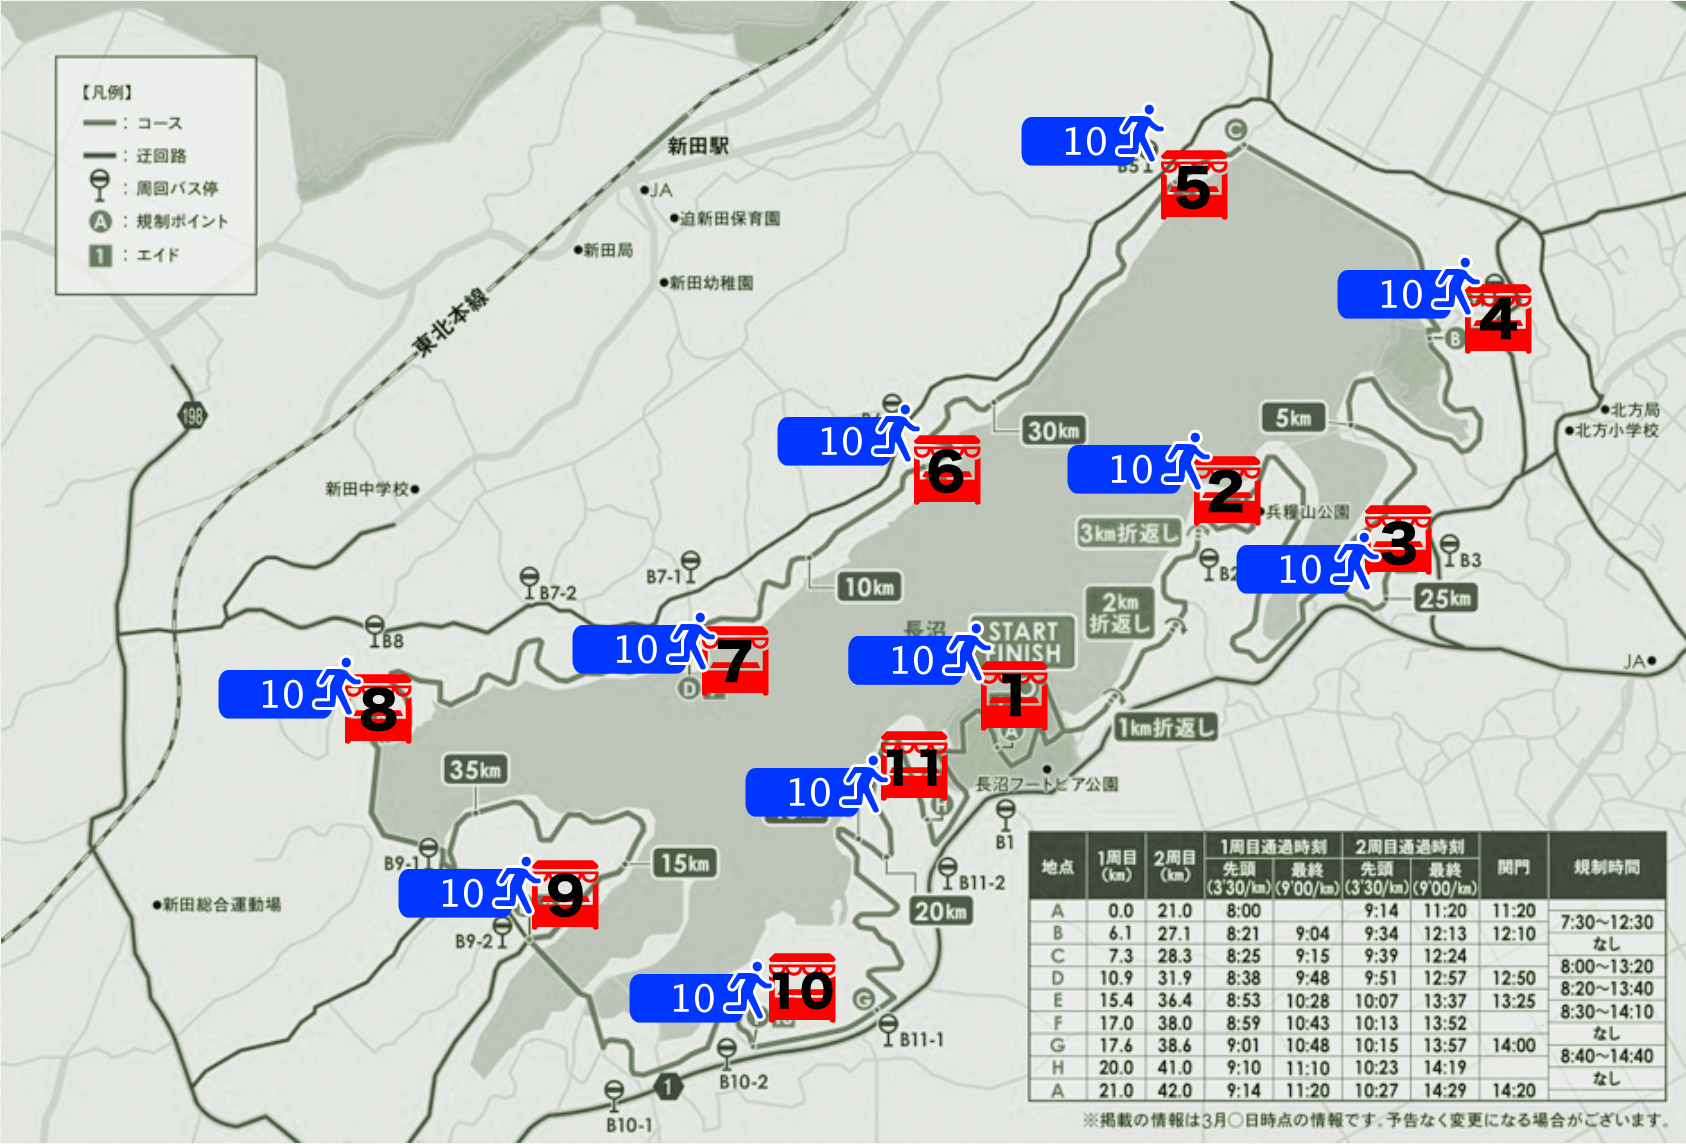
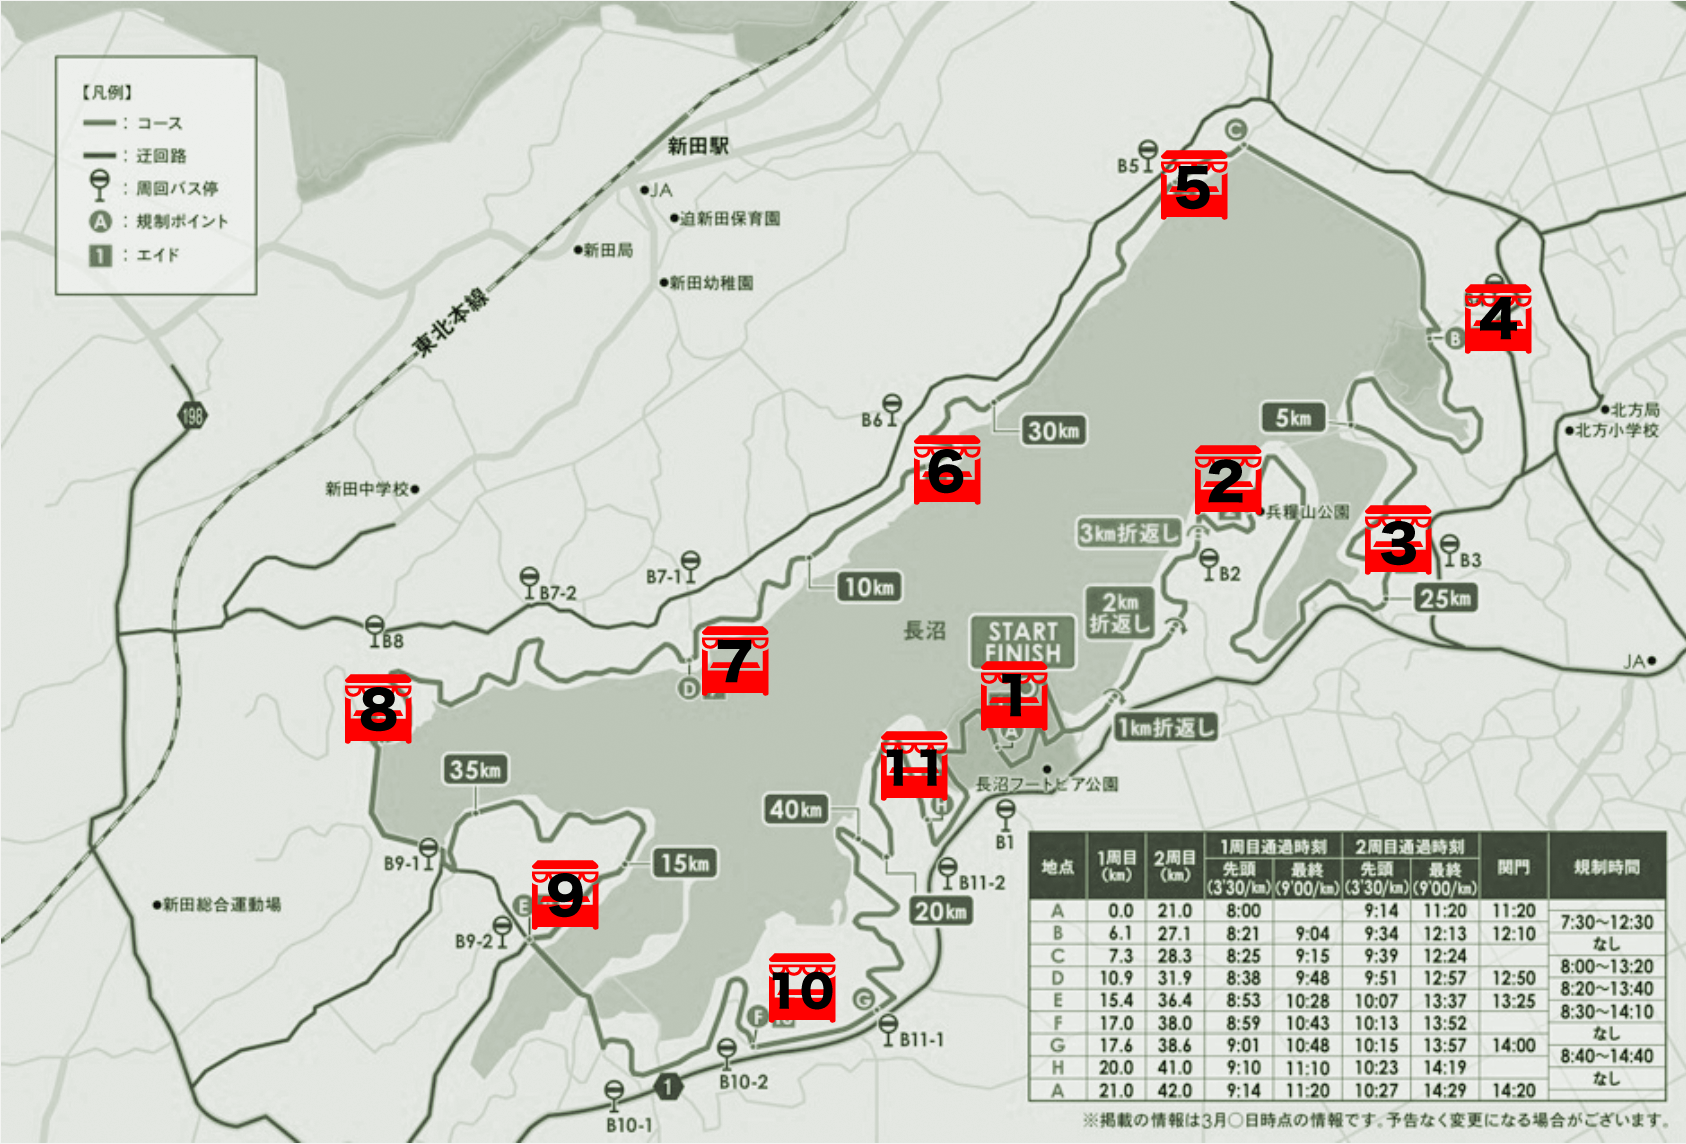
set runners

diff --git a/src/index.js b/src/index.js
@@ -1,0 +1,38 @@
+var poslist = {
+  1:["565px","470px"],
+  2:["718px","317px"],
+  3:["840px","370px"],
+  4:["910px","200px"],
+  5:["694px","105px"],
+  6:["518px","308px"],
+  7:["365px","445px"],
+  8:["112px","478px"],
+  9:["246px","610px"],
+  10:["415px","680px"],
+  11:["494px","519px"],
+}
+var Runner = React.createClass({
+  render: function() {
+    var divstyle= {
+      position:"absolute",
+      left: poslist[this.props.rid][0],
+      top: poslist[this.props.rid][1]
+    }
+    return (
+    <div style={divstyle} className="runner">
+      <img className="runnerimg" src="runner.gif" />
+      <div className="number"/>
+    </div>
+  )
+  }
+});
+$( document ).ready(function() {
+  console.log( "ready!" );
+  for (var n = 1; n < 12; ++ n){
+    $('#runners').append('<div id="runner' + n +'"/>')
+    ReactDOM.render(
+      <Runner rid={n}/>,
+      document.getElementById('runner' + n)
+    )
+  }
+});

diff --git a/index.html b/index.html
@@ -1,12 +1,17 @@
 <!DOCTYPE html>
-<html lang="en">
-<style src="style.css"></style>
+<html lang="ja">
 <head>
+  <link rel="stylesheet" href="style.css">
+  <script src="bower_components/jquery/dist/jquery.min.js"></script>
+  <script src="bower_components/react/react.js"></script>
+  <script src="bower_components/react/react-dom.js"></script>
+  <script src="build/index.js" charset="utf-8"></script>
+
   <meta charset="UTF-8">
   <title>Document</title>
-  <img src="Runners.png" alt="" width="100%">
 </head>
 <body>
-
+  <img src="Runners.png" alt="" width="1200px">
+  <div id="runners"/>
 </body>
 </html>

diff --git a/style.css b/style.css
@@ -1,0 +1,11 @@
+body{margin:0px;}
+.runnerimg{width:40px;float:right;}
+.runner{width:130px;}
+.runner .number{
+  width:130px;
+  height:40px;
+  background-color: blue;
+  border-radius: 10px;		/* CSS3草案 */
+  -webkit-border-radius: 10px;	/* Safari,Google Chrome用 */
+  -moz-border-radius: 10px;	/* Firefox用 */
+}
